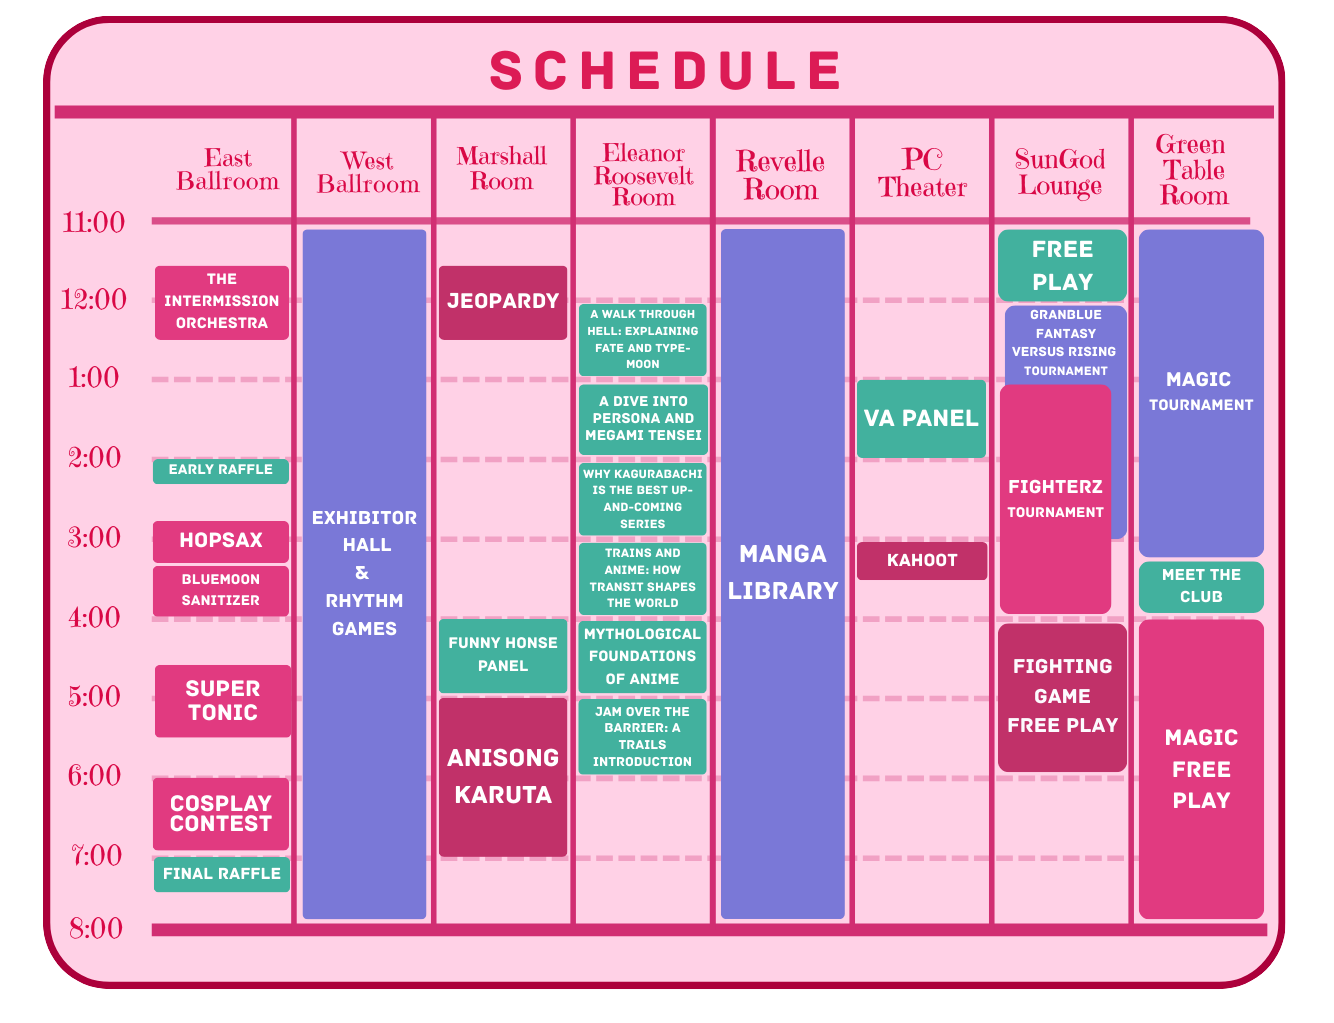
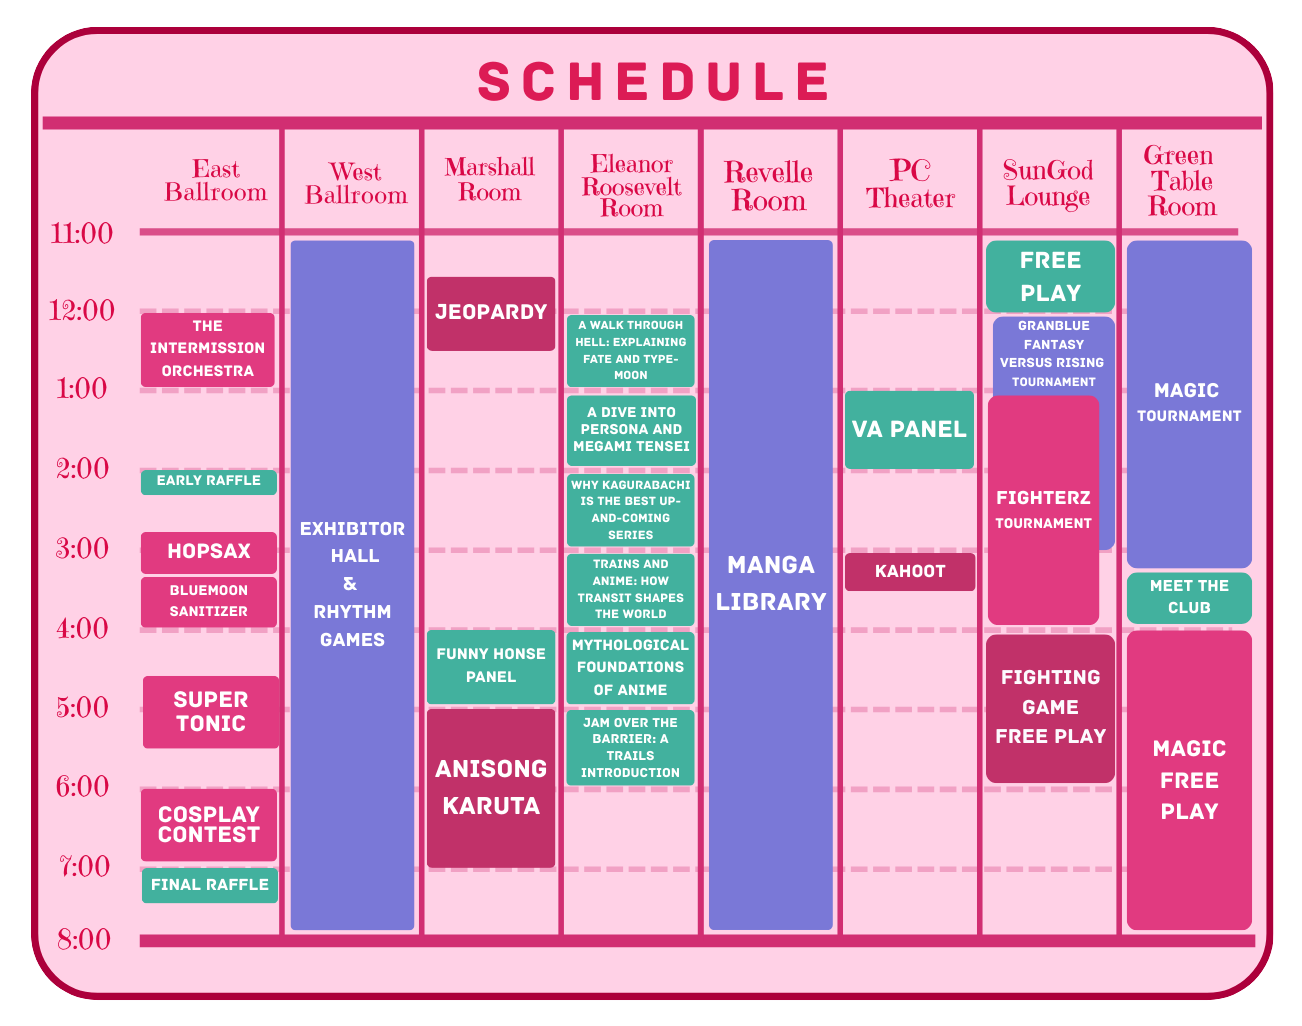
updates

diff --git a/pages/map_schedule.js b/pages/map_schedule.js
@@ -40,16 +40,16 @@ export default function Map_Schedule() {
                         </Col>
                         <Col xs={0} md={2}/>
                     </Row>
-                    {/* <Row className="mb-1 g-3">
+                    <Row className="mb-1 g-3">
                         <Col xs={0} md={0} lg={3}/>
                         <Col>
-                            <a href="images/AF25_Map.png">
-                                <MyImage src="images/AF25_Map.png" className="border-stroke mw-100"
+                            <a href="images/AF26_Map.png">
+                                <MyImage src="images/AF26_Map.png" className="border-stroke mw-100"
                                             alt="Price Center map"></MyImage>
                             </a>
                         </Col>
                         <Col xs={0} md={0} lg={3}/>
-                    </Row> */}
+                    </Row>
                     <p className="caption-text">Click on the images to open.</p>
                 </div>
             </Container>
